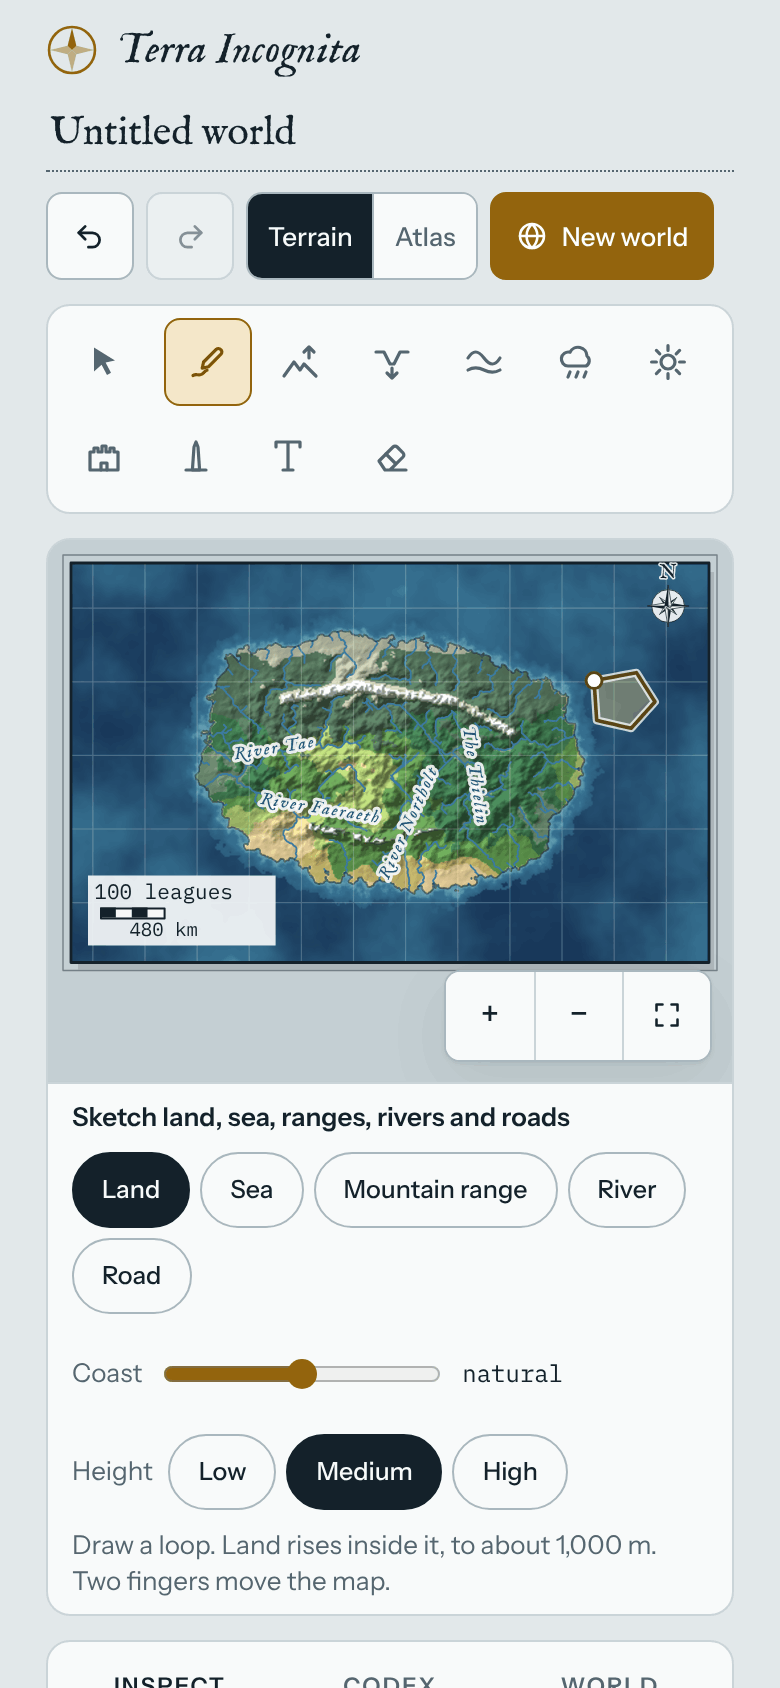
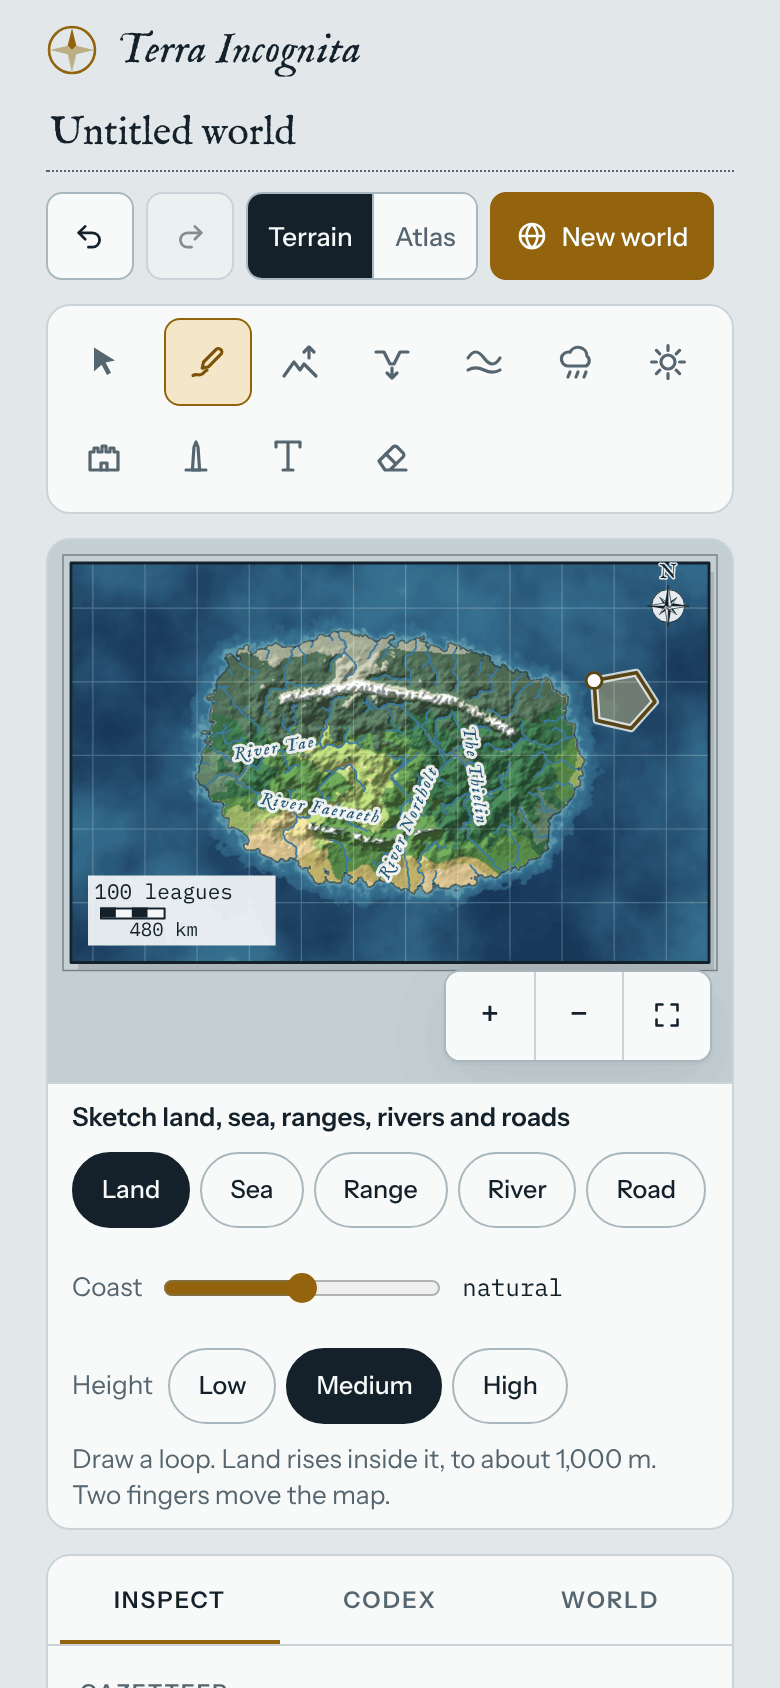
Call the Sketch tool's mountain choice Range, so its five choices keep to one row
With Road added, the Sketch choices on a 390 px phone were Land, Sea, Mountain range and River on one row and Road alone on a second. The button is now Range: the tool's title still says ranges, and the hint under it says what one does. The first-island tips and the README name it the same way, and the README's sketch picture is redrawn. Answers Mark's question on the Sketch choices taking two rows on a phone.

Claude-Session: https://claude.ai/code/session_01PQbLNV8yuVmPjyBMzr2F36

diff --git a/js/app.js b/js/app.js
@@ -2539,7 +2539,7 @@ function renderToolOpts() {
       <span class="hint">${t === 'rain' || t === 'drought' ? 'Rainfall shifts forests, grassland and desert.' : `${BRUSH_HINT[t]} Hold and drag. Rivers and borders settle when you let go.`}${TWO_FINGERS}</span>`;
   } else if (t === 'sketch') {
     const sk = ui.sketch;
-    h += chipGroup('Sketch mode', [['land', 'Land'], ['sea', 'Sea'], ['range', 'Mountain range'], ['river', 'River'], ['road', 'Road']], sk.mode, 'skmode');
+    h += chipGroup('Sketch mode', [['land', 'Land'], ['sea', 'Sea'], ['range', 'Range'], ['river', 'River'], ['road', 'Road']], sk.mode, 'skmode');
     if (sk.mode === 'river') h += `<label class="opt" for="optValley">Valley <input type="range" id="optValley" min="2" max="12" value="${sk.valley}"><output id="optValleyOut">${acrossKm(sk.valley)}</output></label>`;
     else if (sk.mode === 'range') h += `<label class="opt" for="optWidth">Width <input type="range" id="optWidth" min="3" max="24" value="${sk.width}"><output id="optWidthOut">${acrossKm(sk.width)}</output></label>`;
     else if (sk.mode !== 'road') h += `<label class="opt" for="optRough">Coast <input type="range" id="optRough" min="0" max="10" value="${sk.rough}"><output id="optRoughOut" style="min-width:6.5ch">${ROUGH_WORD[sk.rough]}</output></label>`;
@@ -3771,7 +3771,7 @@ function welcomeHTML() {
     <p>Open water, waiting for its first coastline.</p>
     <ul class="tips">
       <li>With ${toolLink('sketch', 'Sketch')} and <b>Land</b> picked, draw a loop on the sea. Land rises inside it, with hills and a natural coast.</li>
-      <li>Choose <b>Sea</b> to carve bays, straits and inland seas, <b>Mountain range</b> to draw a ridge line, or <b>River</b> to run water from a source to the coast. Other rivers and lakes form on their own.</li>
+      <li>Choose <b>Sea</b> to carve bays, straits and inland seas, <b>Range</b> to draw a mountain range along its ridge line, or <b>River</b> to run water from a source to the coast. Other rivers and lakes form on their own.</li>
       <li>When the land looks right, <b>Found new realms</b> in the World tab fills it with towns, borders and names.</li>${keepTip()}
     </ul>${worldNotesHTML()}</div>${JD_FOOT}`;
   // A generated world says what this is, in the README's words; one drawn by hand says so instead.

diff --git a/sw.js b/sw.js
@@ -9,7 +9,7 @@
 // fingerprint of every file in SHELL: change any of them and test/e2e.mjs fails until FILES is changed to match (it
 // says what to), which changes this file, so every copy is made whole again at once.
 const CACHE = 'terra-incognita-v3'; // bump the number when the file list changes
-const FILES = 'fba17924'; // test/e2e.mjs checks this
+const FILES = 'c09d1a94'; // test/e2e.mjs checks this
 const SHELL = [
   './', 'index.html', 'css/app.css', 'js/app.js', 'js/edge-guard.js', 'manifest.webmanifest', 'icon.svg',
   'icon-180.png', 'icon-192.png', 'icon-512.png', 'icon-512-maskable.png',

diff --git a/README.md b/README.md
@@ -18,7 +18,7 @@ and sea stop them. Every town has a page for its story.
 ## How it plays
 
 - **Sketch.** *Land*: draw a loop and land rises inside it, with hills and a coast as smooth or jagged as you like.
-  *Sea*: a loop floods, for bays, straits and inland seas. *Mountain range*: draw the ridge line; a valley it blocks
+  *Sea*: a loop floods, for bays, straits and inland seas. *Range*: draw a mountain range's ridge line; a valley it blocks
   drains through a gorge at the lowest pass instead of becoming a lake. *River*: draw from the source toward the sea,
   and a valley forms so the water follows your line; the map names every river you draw, and Erase on the ring where
   one starts takes it away again (its valley stays). *Road*: a road of your own goes where you draw it, and Erase on
